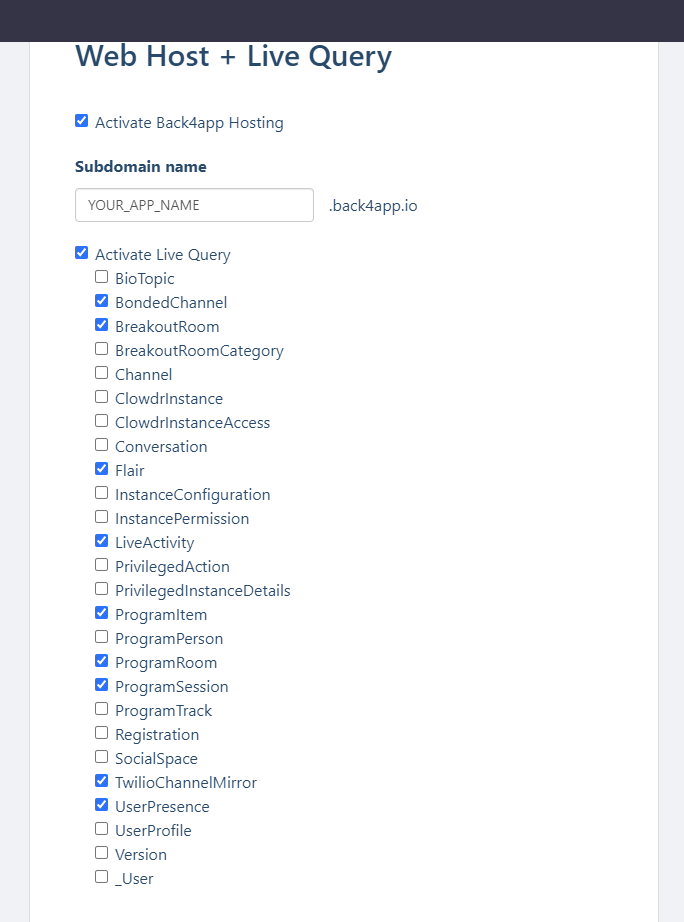
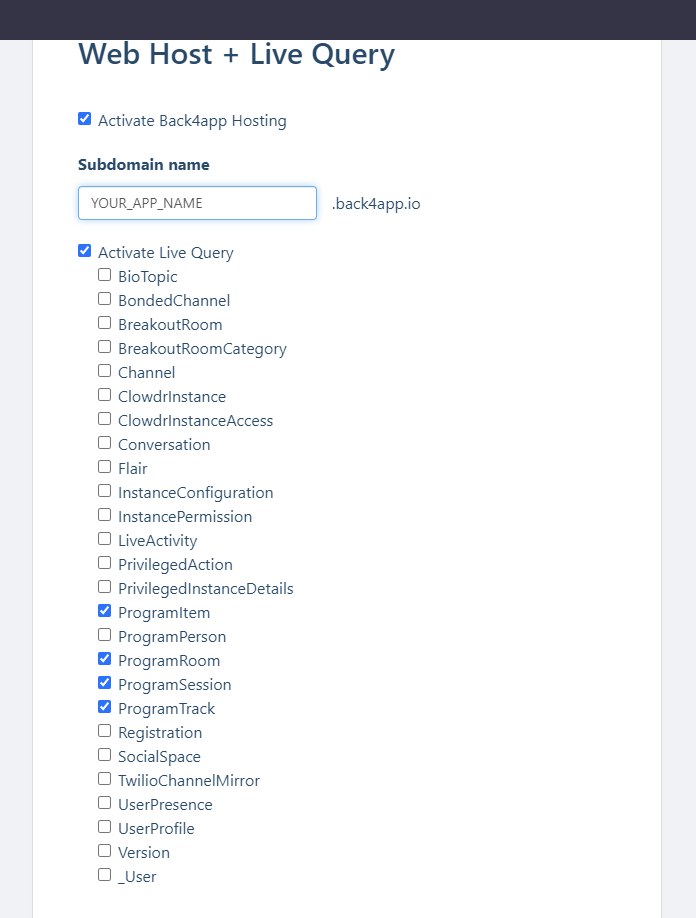
nits

Changed region(s): [[0.1228, 0.2745, 0.4298, 0.976], [0.0921, 0.122, 0.614, 0.244], [0.0921, 0.0305, 0.5833, 0.0915]]

diff --git a/README.md b/README.md
@@ -51,7 +51,8 @@ After this command runs, you should be able to see all tables with some essentia
 
 #### Set Up Hosting and Live Query
 
-From the app created in back4app, turn on live queries for the following tables by going to Server Settings -> Web Hosting and Live Query:
+From the app created in back4app, turn on live queries for the tables in the
+image below by going to Server Settings -> Web Hosting and Live Query:
 
 ![Live Query tables](art/LiveQuery.png?raw=true "Live Query Tables")
 
@@ -61,7 +62,8 @@ name you give it, `YOUR_APP_NAME` matches the environment variable
 
 #### Cloud Functions
 
-Go to Cloud Functions in your Back4App workspace, upload all js code under backend/cloud, and click "deploy".
+Go to Cloud Code (also called "Cloud Code Functions") in your Back4App
+workspace, upload all files with .js extension under backend/cloud, and click "deploy".
 
 ## Usage and Further Configuration
 
@@ -75,9 +77,15 @@ This will pop up a tab in your default browser and from there you can log into t
 
 `clowdr@localhost / admin`
 
+BCP: Should we mention that it will come up looking like ICSE?
+
 ### Set up Twilio for your test conference
 
-Once you login with the admin account, go to Administration->Conference Configuration to enter the Twilio credentials for chat. You must enter, at least the following configuration variables:
+BCP: Test conference, or just conference??
+
+Once you login with the admin account, go to Administration > Conference
+Configuration to enter the Twilio credentials for chat. You must enter at
+least the following configuration variables:
 
 | Config Value | Description |
 | ------------ | ----------- |
